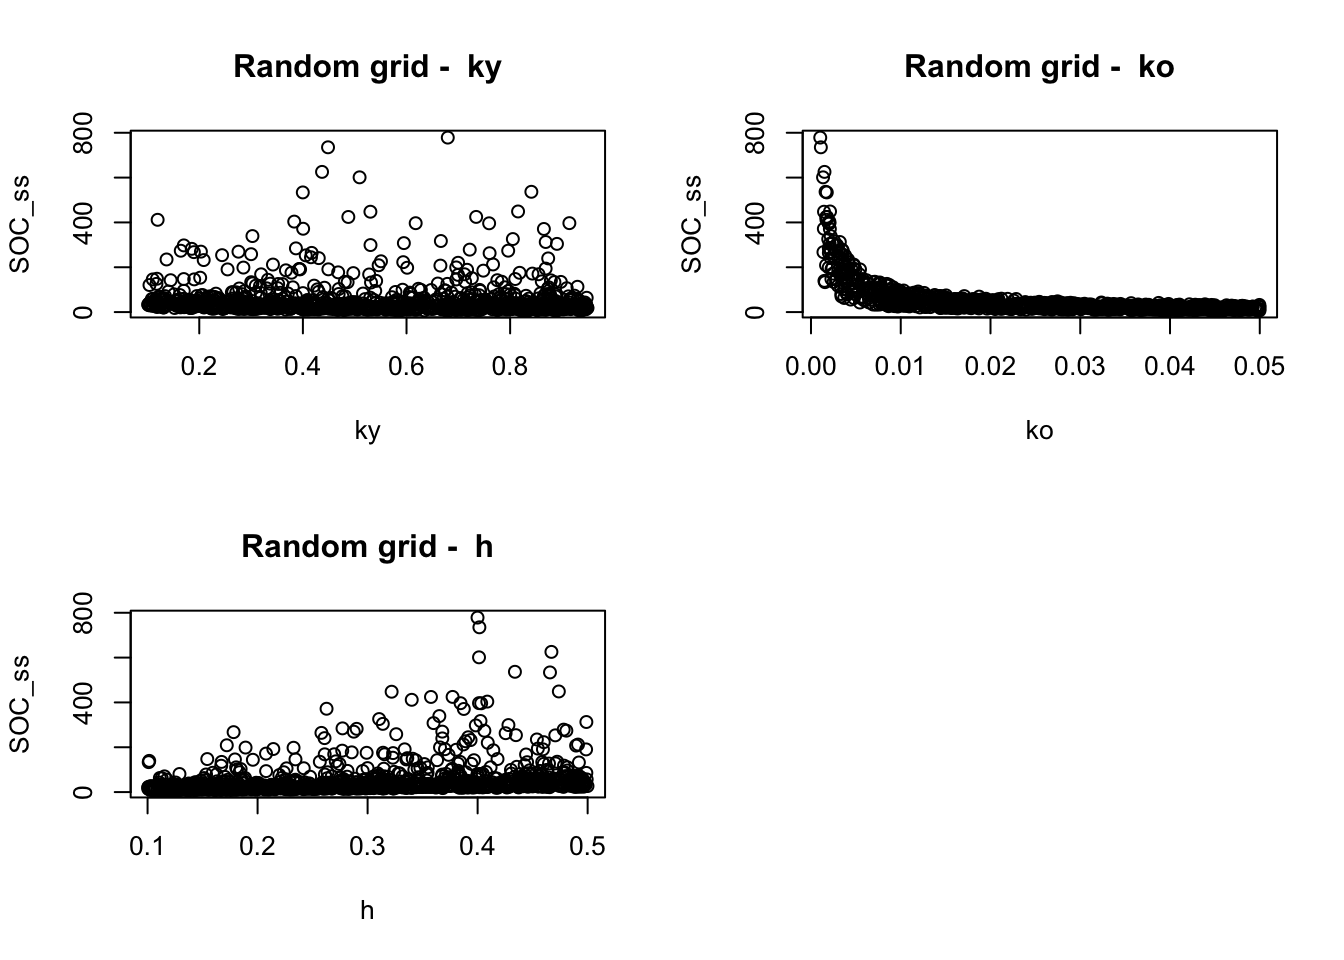
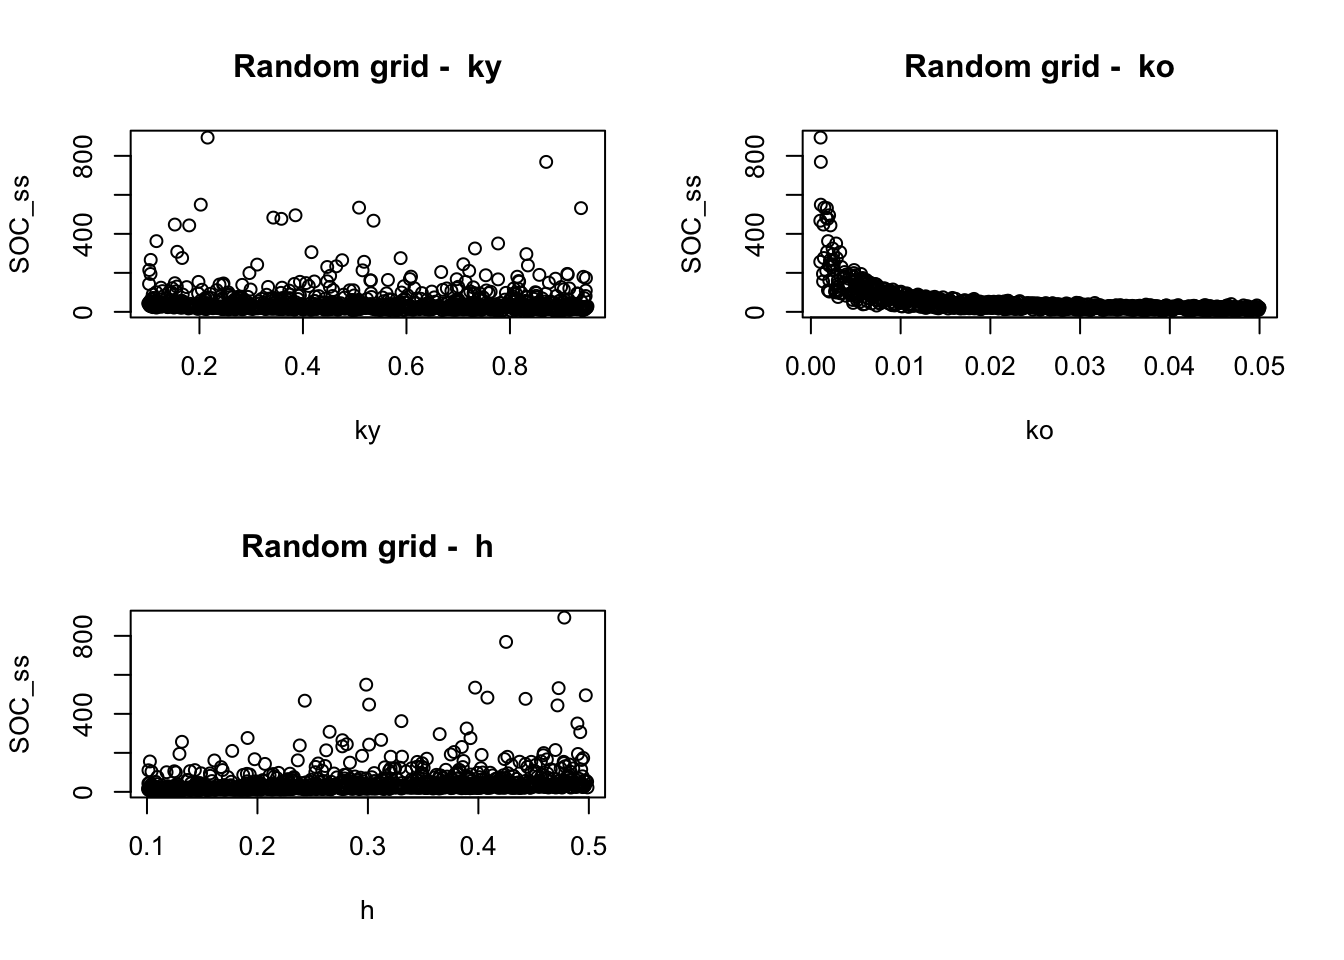
A few more chapters

diff --git a/_site/calibration.html b/_site/calibration.html
@@ -238,7 +238,7 @@ $(document).ready(function () {
         <span class="icon-bar"></span>
         <span class="icon-bar"></span>
       </button>
-      <a class="navbar-brand" href="index.html">My Website</a>
+      <a class="navbar-brand" href="index.html">Crash course in compartmental modeling</a>
     </div>
     <div id="navbar" class="navbar-collapse collapse">
       <ul class="nav navbar-nav">
@@ -252,10 +252,19 @@ $(document).ready(function () {
   <a href="ICBM.html">The ICBM (toy?) model</a>
 </li>
 <li>
-  <a href="calibration.html">Model calibration</a>
+  <a href="steadystate.html">The steady state concept</a>
+</li>
+<li>
+  <a href="climate.html">Introducing climate</a>
 </li>
 <li>
   <a href="space.html">Model space and equifinality</a>
+</li>
+<li>
+  <a href="calibration.html">Model calibration</a>
+</li>
+<li>
+  <a href="bayes.html">Bayes</a>
 </li>
 <li>
   <a href="workshop1.html">Workshop 1: write and calibrate a simple SOC model</a>
@@ -280,17 +289,110 @@ $(document).ready(function () {
 </div>
 
 
-<p>Hello, Website!</p>
-<p>For more information about simple R Markdown websites, please read
-the documentation at <a
-href="https://bookdown.org/yihui/rmarkdown/rmarkdown-site.html"
-class="uri">https://bookdown.org/yihui/rmarkdown/rmarkdown-site.html</a>.</p>
-<p>Please also note that simple R Markdown sites are <em>not</em> based
-on <strong>blogdown</strong>. They are probably good for websites with
-only a few Rmd documents. For larger-scale and more sophisticated
-websites (such as blogs), you may want to use <strong>blogdown</strong>
-instead: <a href="https://github.com/rstudio/blogdown"
-class="uri">https://github.com/rstudio/blogdown</a>.</p>
+<p>“Calibrating” a model means to find the best set of parameters that
+make the model output as close as possible to the observed data.<br />
+Calibration is noting else than varying the values of model parameter
+minimizing or maximizing a certain function. For example, if we want to
+minimize the difference between the model output and the observed data,
+we can simply:<br />
+1) start from a randomly selected parameter value and produce some model
+output 2) sum the absolute value of the difference between the model
+output and the observed data 3) fiddle with the parameter values at
+random, changing them slightly, and repeat the process. If the sum of
+the differences decreases, we keep the new parameter values, otherwise
+we discard them.</p>
+<p>This is probably the simplest calibration algorithm you can think
+about. And you can picture yourself in the process, which is no
+different than having a computer doing the same for you other than the
+speed at which the process can be executed. You can definitely calibrate
+a model without a computer, just using paper and pen (it will just take
+maybe a bit long).</p>
+<div id="an-overly-crude-calibration-algorithm-for-a-linear-model"
+class="section level1">
+<h1>An overly crude calibration algorithm for a linear model</h1>
+<p>We will calibrate now the simplest model I can think of, a linear
+model without intercept:</p>
+<p><span class="math display">\[
+y = \alpha \cdot x
+\]</span> Where <span class="math inline">\(y\)</span> is the model
+output, <span class="math inline">\(x\)</span> is the input, and <span
+class="math inline">\(\alpha\)</span> is the model parameter we want to
+calibrate.</p>
+<div id="introducing-the-algorithm" class="section level2">
+<h2>Introducing the algorithm</h2>
+<p>The algorithm is a random search algorithm (which is the simplest
+approach I can think of), and will: 1) start from a randomly selected
+parameter value and produce some model output 2) sum the absolute value
+of the difference between the model output and the observed data 3)
+fiddle with the parameter values at random, changing them slightly, and
+repeat the process. If the sum of the differences decreases, we keep the
+new parameter values, otherwise we discard them.</p>
+<p>The algorithm will in this case stop after a certain number of
+iterations. This is the simplest possible approach, but usually more
+refined algorithm have a stop condition instead (most often with a
+convergence threshold: the parameter starts to change very little for
+some time, and then the calibration stops).</p>
+</div>
+<div id="generate-example-data" class="section level2">
+<h2>Generate example data</h2>
+<p>First, we generate some data to use with the example</p>
+<pre class="r"><code>set.seed(123) # For reproducibility
+x &lt;- 1:100
+y &lt;- 2 * x + rnorm(100, mean = 0, sd = 20) # True slope is 2, with some noise
+plot(x, y, main = &quot;Hypothetical Data&quot;, xlab = &quot;x&quot;, ylab = &quot;y&quot;)</code></pre>
+<p><img src="calibration_files/figure-html/unnamed-chunk-1-1.png" width="672" /></p>
+</div>
+<div id="define-the-cost-function" class="section level2">
+<h2>Define the cost function</h2>
+<pre class="r"><code>cost_function &lt;- function(x, y, b) {
+  predictions &lt;- b * x
+  mse &lt;- mean((predictions - y)^2)
+  return(mse)
+}</code></pre>
+</div>
+<div id="initialize-the-algorithm" class="section level2">
+<h2>Initialize the algorithm</h2>
+<p>We start by initializing the parameter <span
+class="math inline">\(\alpha\)</span> (written in R code as “a”) at
+random, and set two meta-parameters to define how the algorithm will
+run: the learning rate and the number of iterations. The learning rate
+is a small number that will be multiplied by the gradient of the
+function we want to minimize, and the number of iterations is the number
+of times we will update the parameter <span
+class="math inline">\(\alpha\)</span> (or when the calibration will
+stop).</p>
+<pre class="r"><code>set.seed(123) # For reproducibility
+best_b &lt;- 0 # Initial guess
+best_cost &lt;- cost_function(x, y, best_b)
+learning_rate &lt;- 0.01 # Step size for updating b
+num_trials &lt;- 1000</code></pre>
+</div>
+<div id="perform-the-optimization-loop" class="section level2">
+<h2>Perform the optimization loop</h2>
+<pre class="r"><code>for (i in 1:num_trials) {
+  proposal_b &lt;- best_b + runif(1, -learning_rate, learning_rate) # Propose a new b within a range around the current best
+  proposal_cost &lt;- cost_function(x, y, proposal_b)
+  
+  if (proposal_cost &lt; best_cost) {
+    best_b &lt;- proposal_b
+    best_cost &lt;- proposal_cost
+  }
+}</code></pre>
+</div>
+</div>
+<div id="lets-see-how-the-model-we-just-calibrated-performs"
+class="section level1">
+<h1>Let’s see how the model we just calibrated performs!</h1>
+<pre class="r"><code>plot(x, y, main = &quot;Hypothetical Data&quot;, xlab = &quot;x&quot;, ylab = &quot;y&quot;)
+abline(a = 0, b = best_b, col = &quot;red&quot;)
+legend(&quot;topleft&quot;, legend = &quot;best model calibration we found&quot;, col = &quot;red&quot;, lty = 1)</code></pre>
+<p><img src="calibration_files/figure-html/unnamed-chunk-5-1.png" width="672" /></p>
+<div
+style="background-color: #f0e68c; padding: 10px; border-radius: 5px; margin-bottom: 10px;">
+<p>Now, can you relate what this simple algorithm with the model
+parameter space?</p>
+</div>
+</div>
 
 
 

diff --git a/_site/ICBM.html b/_site/ICBM.html
@@ -255,6 +255,9 @@ $(document).ready(function () {
   <a href="steadystate.html">The steady state concept</a>
 </li>
 <li>
+  <a href="climate.html">Introducing climate</a>
+</li>
+<li>
   <a href="space.html">Model space and equifinality</a>
 </li>
 <li>
@@ -326,6 +329,27 @@ and it becomes identical if the decay constant of the “young” pool,
 class="math inline">\(1\)</span>: all organic material coming to the
 soil is either instantly respired or transferred to the SOM.
 <img src="ICBM_files/figure-html/unnamed-chunk-1-1.png" width="432" /></p>
+<p>The flux from the <span class="math inline">\(O\)</span> pool is
+easily understood: a certain amount of the C in <span
+class="math inline">\(O\)</span> (defined by <span
+class="math inline">\(k\)</span>) is metabolized at any time step and
+released as <span class="math inline">\(CO_2\)</span>. The flux defines
+what remains in the pool, as well as what is respired.<br />
+The flux from the <span class="math inline">\(Y\)</span> pool is a bit
+more complex. It is divided into two parts: one part is transferred to
+the <span class="math inline">\(O\)</span> pool, and the other part is
+respired. The fraction of the C in the <span
+class="math inline">\(Y\)</span> pool that is transferred to the <span
+class="math inline">\(O\)</span> pool is defined by the parameter <span
+class="math inline">\(h\)</span>. The rest (<span
+class="math inline">\(1-h\)</span>) is respired. The latter flux is
+often not written, depending on the application.<br />
+The <span class="math inline">\(h\)</span> parameter is defined as
+“humification factor” and it is supposed to represent the material that
+is “humified” (or “stabilized”) in the soil. It is a bit of a
+simplification, since the material that is transferred to the <span
+class="math inline">\(O\)</span> pool is not necessarily stabilized, but
+it is a useful concept.</p>
 </div>
 <div id="the-advantages-of-minimalism-easily-solved-steady-states"
 class="section level2">
@@ -333,7 +357,8 @@ class="section level2">
 <p>No system will accumulate or lose C indefinitely. The rates will
 always tend to zero.<br />
 When the rate of SOC variation is zero, the system is in
-<strong>equilibrium</strong>, and inputs equal outputs. For example a
+<strong>equilibrium</strong>, and inputs equal outputs. We will explore
+more in detail this concept in the following section, but for example a
 land use change from a relatively rich environment (a forest) to an
 environment with less C inputs (agriculture). SOC will decrease over
 time until it reaches the new equilibrium:
@@ -347,7 +372,7 @@ C_{ss}\)</span>, which means <span class="math inline">\(k \cdot C_{ss}
 = I\)</span> and therefore <span
 class="math inline">\(C_{ss}=\frac{I}{k}\)</span>.</p>
 <p>A slightly more complicated model, like the two pool (Y and O) ICBM,
-has still relatively simple analyitcal solution: <span
+has still relatively simple analytical solution: <span
 class="math display">\[
 Y_{ss}=\frac{I}{k_y}\\
 O_{ss}=\epsilon\cdot\frac{I}{k_o}

diff --git a/_site/steadystate.html b/_site/steadystate.html
@@ -255,6 +255,9 @@ $(document).ready(function () {
   <a href="steadystate.html">The steady state concept</a>
 </li>
 <li>
+  <a href="climate.html">Introducing climate</a>
+</li>
+<li>
   <a href="space.html">Model space and equifinality</a>
 </li>
 <li>
@@ -341,8 +344,8 @@ class="section level2">
 <h2>1: Set the time derivatives to zero to find the steady state
 conditions:</h2>
 <p><span class="math display">\[
-0 = I - k_y \cdot r \cdot Y \\
-0 = h \cdot k_y \cdot r \cdot Y - k_o \cdot r \cdot O
+0 = I - k_y  \cdot Y \\
+0 = h \cdot k_y \cdot Y - k_o \cdot O
 \]</span></p>
 </div>
 <div id="solve-the-system-of-equations-for-the-steady-state-conditions"
@@ -351,7 +354,7 @@ class="section level2">
 conditions:</h2>
 <p>To solve for Y, rearrange the first equation:</p>
 <p><span class="math display">\[
-Y = \frac{I}{k_y \cdot r}
+Y = \frac{I}{k_y }
 \]</span></p>
 </div>
 <div
@@ -361,20 +364,23 @@ class="section level2">
 O:</h2>
 <p>With the value of Y found, substitute it into the second equation:
 <span class="math display">\[
-0 = h \cdot k_y \cdot r \cdot \left(\frac{I}{k_y \cdot r}\right) - k_o
-\cdot r \cdot O
+0 = h \cdot k_y  \cdot \left(\frac{I}{k_y }\right) - k_o  \cdot O
 \]</span> Simplify and solve for O:</p>
 <p><span class="math display">\[
-O = \frac{h \cdot I}{k_o \cdot r}
+O = \frac{h \cdot I}{k_o}
 \]</span></p>
 </div>
 <div id="there-the-steady-state-of-the-system-is"
 class="section level2">
 <h2>There! The steady state of the system is:</h2>
 <p><span class="math display">\[
-Y = \frac{I}{k_y \cdot r} \\
-O = \frac{h \cdot I}{k_o \cdot r}
+Y_{ss} = \frac{I}{k_y} \\
+O_{ss} = \frac{h \cdot I}{k_o }
 \]</span></p>
+<p>In order to find the total SOC of the system you just need to sum the
+two pools, $ SOC = Y_{ss} + O_{ss}$.<br />
+You can see in the last two equations that once the parameters are
+given, the steady state is defined only by the inputs.</p>
 </div>
 </div>
 

diff --git a/_site/workshop1.html b/_site/workshop1.html
@@ -238,7 +238,7 @@ $(document).ready(function () {
         <span class="icon-bar"></span>
         <span class="icon-bar"></span>
       </button>
-      <a class="navbar-brand" href="index.html">My Website</a>
+      <a class="navbar-brand" href="index.html">Crash course in compartmental modeling</a>
     </div>
     <div id="navbar" class="navbar-collapse collapse">
       <ul class="nav navbar-nav">
@@ -252,13 +252,19 @@ $(document).ready(function () {
   <a href="ICBM.html">The ICBM (toy?) model</a>
 </li>
 <li>
-  <a href="calibration.html">Model calibration</a>
+  <a href="steadystate.html">The steady state concept</a>
+</li>
+<li>
+  <a href="climate.html">Introducing climate</a>
 </li>
 <li>
   <a href="space.html">Model space and equifinality</a>
 </li>
 <li>
-  <a href="about.html">About</a>
+  <a href="calibration.html">Model calibration</a>
+</li>
+<li>
+  <a href="bayes.html">Bayes</a>
 </li>
 <li>
   <a href="workshop1.html">Workshop 1: write and calibrate a simple SOC model</a>

diff --git a/_site/bayes.html b/_site/bayes.html
@@ -238,7 +238,7 @@ $(document).ready(function () {
         <span class="icon-bar"></span>
         <span class="icon-bar"></span>
       </button>
-      <a class="navbar-brand" href="index.html">My Website</a>
+      <a class="navbar-brand" href="index.html">Crash course in compartmental modeling</a>
     </div>
     <div id="navbar" class="navbar-collapse collapse">
       <ul class="nav navbar-nav">
@@ -252,10 +252,16 @@ $(document).ready(function () {
   <a href="ICBM.html">The ICBM (toy?) model</a>
 </li>
 <li>
-  <a href="calibration.html">Model calibration</a>
+  <a href="steadystate.html">The steady state concept</a>
+</li>
+<li>
+  <a href="climate.html">Introducing climate</a>
 </li>
 <li>
   <a href="space.html">Model space and equifinality</a>
+</li>
+<li>
+  <a href="calibration.html">Model calibration</a>
 </li>
 <li>
   <a href="bayes.html">Bayes</a>

diff --git a/_site/workshop2.html b/_site/workshop2.html
@@ -368,12 +368,12 @@ of parameters.</p>
 #show the first rows of the data frame
 head(parameters_random)</code></pre>
 <pre><code>##          ky         ko         h
-## 1 0.7880907 0.03916802 0.4551808
-## 2 0.1339247 0.01707789 0.4812853
-## 3 0.2377892 0.00558585 0.1513981
-## 4 0.2897819 0.02903108 0.1448264
-## 5 0.2462356 0.02648041 0.1744476
-## 6 0.8990334 0.03028364 0.3277599</code></pre>
+## 1 0.2067770 0.01473413 0.1069817
+## 2 0.1042217 0.02676323 0.2709012
+## 3 0.7373048 0.02360553 0.2136833
+## 4 0.2340663 0.04939324 0.3139531
+## 5 0.2531846 0.01816173 0.1670910
+## 6 0.9400350 0.04197788 0.1106309</code></pre>
 <p>The function runif creates a random grid of parameters between the
 requested intervals, and the dimensions of the resulting matrix:</p>
 <pre class="r"><code>dim(parameters_random)</code></pre>

diff --git a/_site/space.html b/_site/space.html
@@ -255,10 +255,13 @@ $(document).ready(function () {
   <a href="steadystate.html">The steady state concept</a>
 </li>
 <li>
-  <a href="calibration.html">Model calibration</a>
+  <a href="climate.html">Introducing climate</a>
 </li>
 <li>
   <a href="space.html">Model space and equifinality</a>
+</li>
+<li>
+  <a href="calibration.html">Model calibration</a>
 </li>
 <li>
   <a href="bayes.html">Bayes</a>
@@ -301,7 +304,8 @@ class="section level1">
 <p>A model has usually at least one parameter.</p>
 <p>Let’s take for example the following model, describing the
 relationship between soil pH and H<span
-class="math inline">\(^+\)</span> ions in the soil solution.</p>
+class="math inline">\(^+\)</span> ions in the soil solution (totally
+made up).</p>
 <pre class="r"><code>pH = seq(from = 0, to = 14, by = 0.01) 
 
 k = 1

diff --git a/_site/history.html b/_site/history.html
@@ -255,10 +255,13 @@ $(document).ready(function () {
   <a href="steadystate.html">The steady state concept</a>
 </li>
 <li>
-  <a href="calibration.html">Model calibration</a>
+  <a href="climate.html">Introducing climate</a>
 </li>
 <li>
   <a href="space.html">Model space and equifinality</a>
+</li>
+<li>
+  <a href="calibration.html">Model calibration</a>
 </li>
 <li>
   <a href="bayes.html">Bayes</a>

diff --git a/_site/index.html b/_site/index.html
@@ -255,6 +255,9 @@ $(document).ready(function () {
   <a href="steadystate.html">The steady state concept</a>
 </li>
 <li>
+  <a href="climate.html">Introducing climate</a>
+</li>
+<li>
   <a href="space.html">Model space and equifinality</a>
 </li>
 <li>
